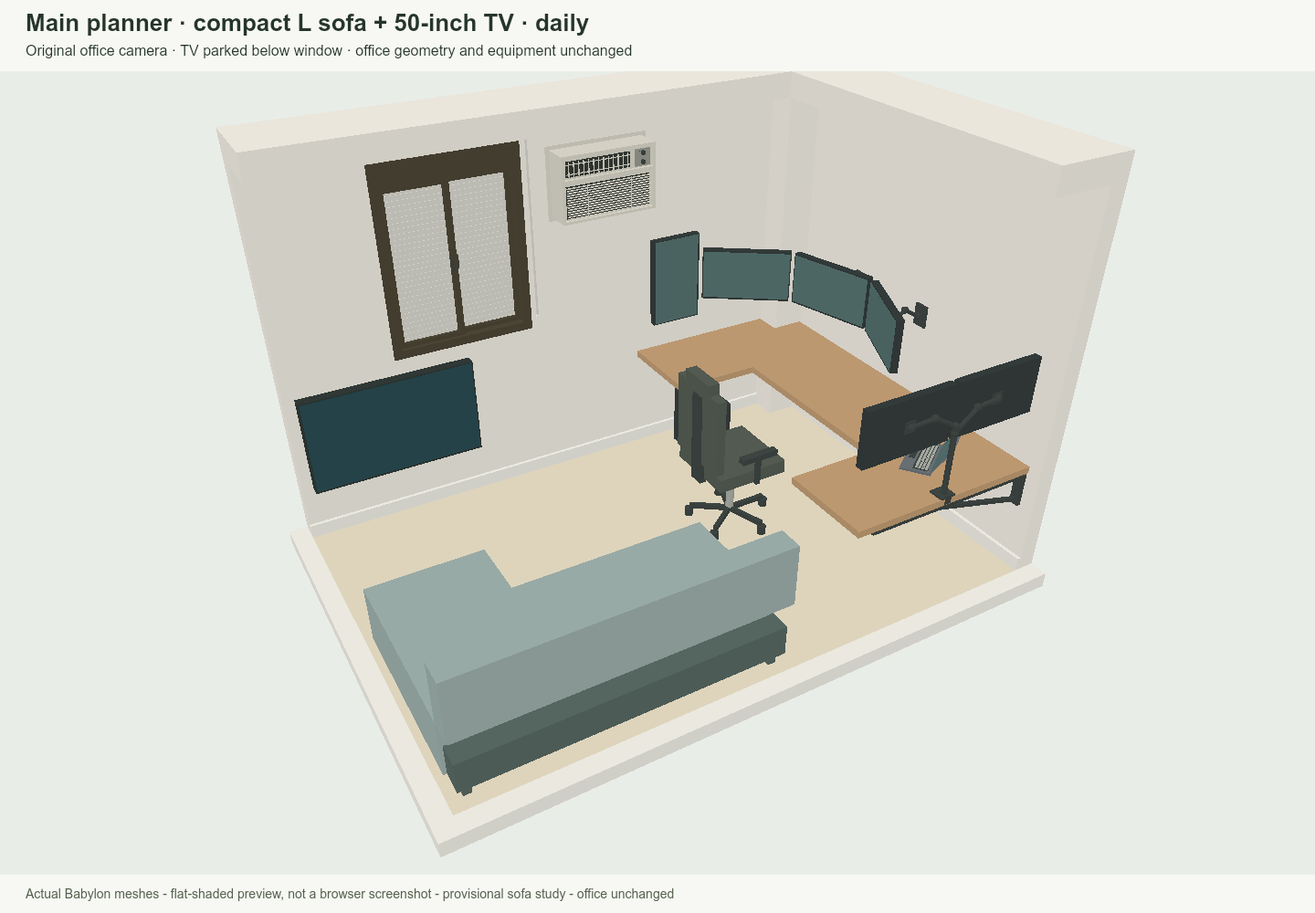
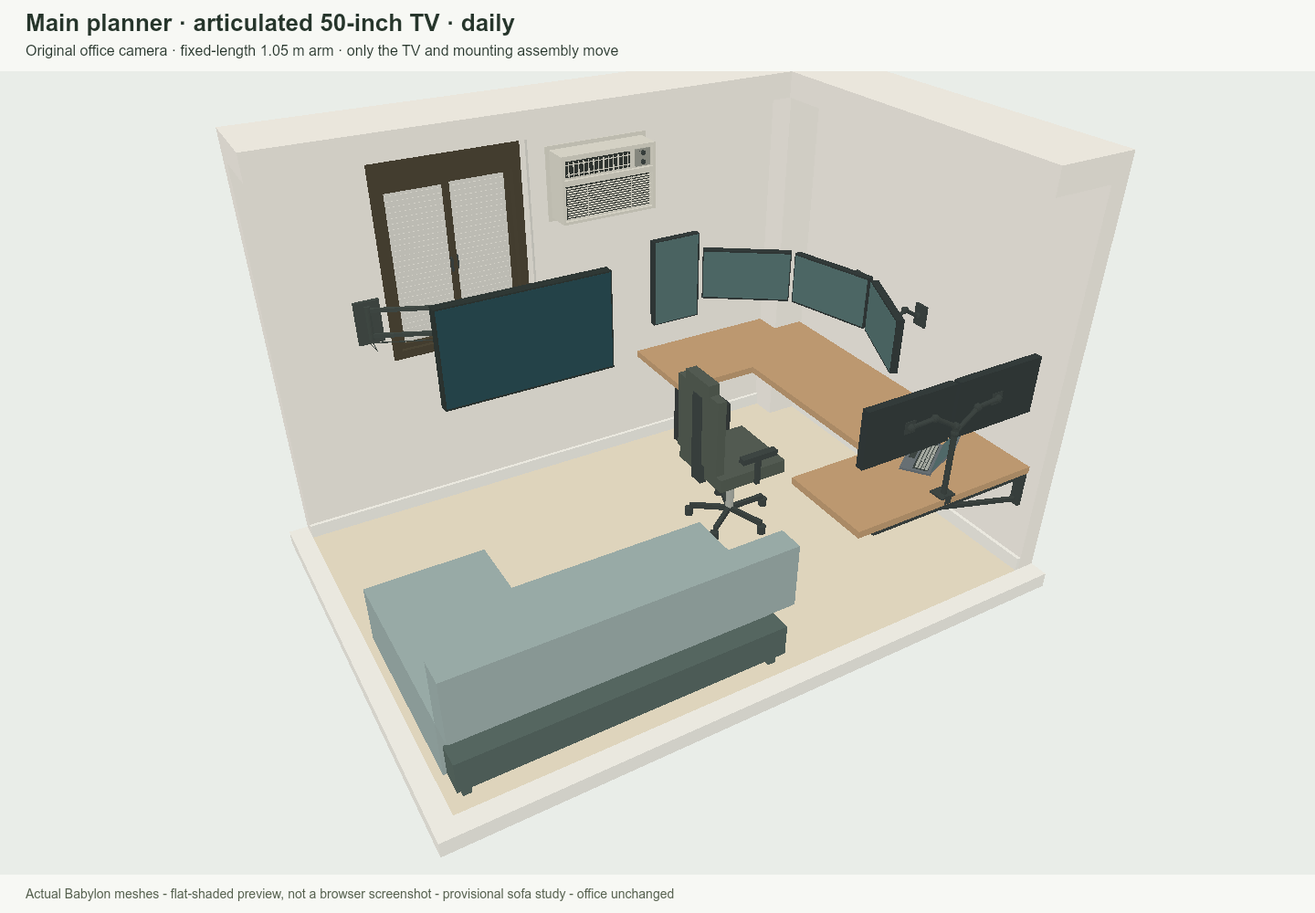
fix(tv): add a storable articulated mount facing the sofa
- Animate stored, sofa-viewing and window-access positions with rigid arm links
- Raise the full-size TV and preserve the existing room and workstation layout
- Persist TV controls with undo and update walking collisions during motion
- Verify both trial door swings, window geometry and access behind the screen
- Refresh actual-mesh previews and document the provisional mount dimensions
- Pass all 76 tests and the production build

Changed region(s): [[0.2188, 0.279, 0.4688, 0.558], [0.125, 0.0, 0.4688, 0.062]]

diff --git a/tests/main-lounge.test.ts b/tests/main-lounge.test.ts
@@ -8,8 +8,9 @@ import {createRoom} from '../src/room/geometry';
 import {createArchitecture} from '../src/architecture/features';
 import {createMaterials} from '../src/materials';
 import {obstacles,canStand,rectanglesOverlap} from '../src/navigation/collision';
-import {doorLeaf} from '../src/study/analysis';
+import {doorLeaf,route} from '../src/study/analysis';
 import {validateConfig} from '../src/config/storage';
+import {tvPose,tvMotionObstacles,solveTV,TV_MOUNT,TV_STOPS} from '../src/furniture/tvMotion';
 
 test('main lounge renders a full-size TV and sofa without changing the locked office',()=>{
   const config=freshConfig(),before=structuredClone(config);config.lounge=freshLounge();
@@ -27,20 +28,31 @@ test('main lounge renders a full-size TV and sofa without changing the locked of
   }finally{scene.dispose();engine.dispose();}
 });
 
-test('parked TV and plate clear the window, room and both trial inward door sweeps',()=>{
+test('TV mount remains on solid wall and every guided pose clears both trial inward door sweeps',()=>{
   const config=freshConfig();config.lounge=freshLounge();const tv=LOUNGE.tv;
   assert.ok(tv.anchor.x-tv.plateWidth/2>1.175);
-  assert.ok(tv.center.x+tv.width/2<config.room.length/2);
-  assert.ok(Math.abs(config.room.openings[0].sill-(tv.center.y+tv.height/2)-.055)<1e-8);
-  const added=obstacles(config).filter(o=>o.id.startsWith('lounge-tv'));
-  for(const hinge of ['south','north'] as const)for(let angle=0;angle<=90;angle+=.25)
-    for(const o of added)assert.equal(rectanglesOverlap(o,doorLeaf(config,hinge,angle)),false,`${hinge} door ${angle}`);
+  const leaves=(['south','north'] as const).flatMap(h=>Array.from({length:361},(_,i)=>doorLeaf(config,h,i/4)));
+  const fixed=obstacles(freshConfig());
+  for(let i=0;i<=900;i++){
+    const pose=tvPose(i/900),{end,elbow,reach}=solveTV(pose),parts=tvMotionObstacles(pose);
+    assert.ok(reach<=1.05+1e-8);
+    assert.ok(Math.abs(Math.hypot(elbow.x-TV_MOUNT.anchor.x,elbow.z-TV_MOUNT.anchor.z)-.70)<1e-8);
+    assert.ok(Math.abs(Math.hypot(elbow.x-end.x,elbow.z-end.z)-.35)<1e-8);
+    for(const o of parts){const r=o.rotation*Math.PI/180,halfZ=(Math.abs(Math.sin(r))*o.width+Math.abs(Math.cos(r))*o.depth)/2;
+      assert.ok(o.z-halfZ>=-config.room.width/2-1e-8,'Do not swing into the wall');
+      assert.ok(leaves.every(leaf=>!rectanglesOverlap({...o,width:o.width+.02,depth:o.depth+.02},leaf)),`Door needs 10 mm additional clearance at pose ${i}`);
+      assert.ok(fixed.every(item=>!rectanglesOverlap(o,item)),`Existing furniture conflict at pose ${i}`);
+    }
+    assert.ok(parts.slice(1).every(link=>!rectanglesOverlap(parts[0],link)),'Arm must stay behind the screen');
+  }
   const engine=new NullEngine(),scene=new Scene(engine);
   try{
     const materials=createMaterials(scene,config.room,false),room=createRoom(scene,config.room,materials);
     const architecture=createArchitecture(scene,config.room,materials,room),lounge=createLounge(scene,config);
-    for(const a of architecture.filter(m=>m.parent?.name==='window'))for(const b of lounge.meshes.filter(m=>m.name.startsWith('Lounge TV'))){
-      a.computeWorldMatrix(true);b.computeWorldMatrix(true);assert.equal(a.intersectsMesh(b,true),false,`${a.name} / ${b.name}`);
+    for(let i=0;i<=90;i++){lounge.updateTV(i/90);
+      for(const a of architecture.filter(m=>m.parent?.name==='window'))for(const b of lounge.meshes.filter(m=>m.name.startsWith('Lounge TV'))){
+        a.computeWorldMatrix(true);b.computeWorldMatrix(true);assert.equal(a.intersectsMesh(b,true),false,`${a.name} / ${b.name} at ${i}`);
+      }
     }
   }finally{scene.dispose();engine.dispose();}
 });
@@ -48,9 +60,18 @@ test('parked TV and plate clear the window, room and both trial inward door swee
 test('Walk Mode collides with visible sofa and TV; hiding lounge removes those obstacles',()=>{
   const config=freshConfig();config.lounge=freshLounge();
   assert.equal(canStand(.5,.8,config.room,obstacles(config)),false);
-  assert.equal(canStand(1.28,-1.08,config.room,obstacles(config),.10),false);
-  assert.equal(canStand(.5,-.6,config.room,obstacles(config)),true);
+  assert.equal(canStand(.55,-.6,config.room,obstacles(config),.10),false);
+  assert.equal(canStand(.1,-.4,config.room,obstacles(config),.15),true);
   config.lounge.state='sleeping';assert.equal(canStand(.5,.05,config.room,obstacles(config)),false);
   config.lounge.visible=false;assert.equal(canStand(.5,.8,config.room,obstacles(config)),true);
   assert.ok(!obstacles(config).some(o=>o.id.startsWith('lounge')));
+});
+
+test('window-access pose provides a walkable approach behind the angled screen',()=>{
+  const config=freshConfig();config.lounge={...freshLounge(),tvProgress:TV_STOPS.access};
+  for(const hinge of ['south','north'] as const){
+    const objects=[...obstacles(config).filter(o=>o.bottom<1.8&&o.top>.08),doorLeaf(config,hinge,90)];
+    const access=route(config,objects,{x:.30,z:-1.0});
+    assert.ok(access.width>=.55,`Window approach: ${access.width}`);
+  }
 });

diff --git a/src/furniture/lounge.ts b/src/furniture/lounge.ts
@@ -5,36 +5,39 @@ import { solid } from '../materials';
 import { box } from '../room/geometry';
 import { SLEEPERS } from '../study/config';
 import { createSleeper } from '../study/geometry';
+import { solveTV, tvPose, TV_MOUNT } from './tvMotion';
 
 export function createLounge(scene:Scene,config:PlannerConfig) {
   const meshes:Mesh[]=[];
-  if(!config.lounge?.visible)return {meshes,dispose:()=>{}};
+  if(!config.lounge?.visible)return {meshes,updateTV:(_progress:number)=>{},dispose:()=>{}};
   const sofa=createSleeper(scene,SLEEPERS.find(s=>s.id===LOUNGE.sofaId)!,'north',config.lounge.state,config);
   // Measurement envelopes belong in the study; the main scene shows actual furniture.
   sofa.meshes.filter(m=>!m.name.startsWith('Sleeper')).forEach(m=>m.setEnabled(false));
   meshes.push(...sofa.meshes);
-  const tv=LOUNGE.tv,c=tv.center,a=tv.anchor;
+  const tv=LOUNGE.tv,a=tv.anchor;
   const finish=solid(scene,'Lounge TV case',tv.color,.12),display=solid(scene,'Lounge TV screen',tv.screenColor,.08),steel=solid(scene,'Lounge TV arm','#444d48',.2);
   display.emissiveColor=display.diffuseColor.scale(.10);
   const part=(name:string,w:number,h:number,d:number,x:number,y:number,z:number,material=finish)=>{
     const mesh=box(scene,`Lounge TV ${name}`,w,h,d,x,y,z,material);meshes.push(mesh);return mesh;
   };
-  part('50-inch housing',tv.width,tv.height,tv.depth,c.x,c.y,c.z);
-  part('50-inch display',tv.width-.018,tv.height-.022,.002,c.x,c.y+.002,c.z+tv.depth/2+.001,display);
+  const screenRoot=new Mesh('TV articulated screen pivot',scene);meshes.push(screenRoot);
+  const housing=part('50-inch housing',tv.width,tv.height,tv.depth,0,0,0);housing.parent=screenRoot;
+  const screen=part('50-inch display',tv.width-.018,tv.height-.022,.002,0,.002,tv.depth/2+.001,display);screen.parent=screenRoot;
   part('wall plate',tv.plateWidth,tv.plateHeight,.025,a.x,a.y,-config.room.width/2+.0125,steel);
-  const end=new Vector3(c.x,c.y,c.z-tv.depth/2-.015),start=new Vector3(a.x,a.y,a.z);
-  const distance=Vector3.Distance(start,end),mid=start.add(end).scale(.5);
-  if(distance>tv.linkLength*2)throw Error('TV mount exceeds its configured reach.');
-  const elbow=new Vector3(mid.x-Math.sqrt(tv.linkLength**2-(distance/2)**2),mid.y,mid.z);
-  const link=(p:Vector3,q:Vector3)=>{
-    const mesh=part('folded articulated link',.018,.025,Vector3.Distance(p,q),(p.x+q.x)/2,(p.y+q.y)/2,(p.z+q.z)/2,steel);
-    mesh.rotation.y=Math.atan2(q.x-p.x,q.z-p.z);
+  const vesa=part('VESA plate',.20,.20,.03,0,0,-TV_MOUNT.vesaOffset,steel);vesa.parent=screenRoot;
+  const links=[-.085,.085].flatMap(y=>[0,1].map(i=>({y,i,mesh:part('articulated link',.020,.025,tv.links[i],0,a.y+y,0,steel)})));
+  const pivots=[0,1,2].map(()=>{const m=MeshBuilder.CreateCylinder('Lounge TV hinge',{diameter:.035,height:.22,tessellation:16},scene);m.material=steel;meshes.push(m);return m;});
+  // Cable follows both rigid links, with service loops at moving joints.
+  let cable:Mesh|undefined;
+  const updateTV=(progress:number)=>{
+    const p=tvPose(progress),{end,elbow}=solveTV(p),points=[a,elbow,end];
+    screenRoot.position.set(p.x,a.y,p.z);screenRoot.rotation.y=p.yaw*Math.PI/180;
+    links.forEach(({i,y,mesh})=>{const s=points[i],e=points[i+1];mesh.position.set((s.x+e.x)/2,a.y+y,(s.z+e.z)/2);mesh.rotation.y=Math.atan2(e.x-s.x,e.z-s.z);});
+    pivots.forEach((m,i)=>m.position.set(points[i].x,a.y,points[i].z));
+    const path=points.flatMap((q,i)=>[new Vector3(q.x,a.y-.13,q.z),new Vector3(q.x-.02,a.y-.19,q.z+.012),new Vector3(q.x+(i===2?0:.02),a.y-.13,q.z)]);
+    cable=MeshBuilder.CreateTube('Lounge TV articulated service cable',{path,radius:.004,tessellation:6,updatable:true,instance:cable},scene);
+    cable.material=steel;if(!meshes.includes(cable))meshes.push(cable);
   };
-  for(const offset of [-.085,.085]){
-    const p=start.add(new Vector3(0,offset,0)),q=elbow.add(new Vector3(0,offset,0)),r=end.add(new Vector3(0,offset,0));link(p,q);link(q,r);
-  }
-  part('VESA plate',.20,.20,.030,end.x,end.y,end.z,steel);
-  const cable=MeshBuilder.CreateTube('Lounge TV service cable',{path:[start.add(new Vector3(0,-.10,.02)),new Vector3(a.x-.1,a.y-.29,a.z+.035),end.add(new Vector3(0,-.10,0))],radius:.004,tessellation:8},scene);
-  cable.material=steel;meshes.push(cable);
-  return {meshes,dispose:()=>{sofa.dispose();meshes.filter(m=>!sofa.meshes.includes(m)).forEach(m=>m.dispose());finish.dispose();display.dispose();steel.dispose();}};
+  updateTV(config.lounge.tvProgress??7/9);
+  return {meshes,updateTV,dispose:()=>{sofa.dispose();meshes.filter(m=>!sofa.meshes.includes(m)).forEach(m=>m.dispose());finish.dispose();display.dispose();steel.dispose();}};
 }

diff --git a/src/planner.ts b/src/planner.ts
@@ -1,5 +1,5 @@
 import { deskOutline } from './furniture/deskProfile';
-import { BoundingInfo, Color3, Color4, Engine, GizmoManager, Mesh, MeshBuilder, PointerEventTypes, Scene, Vector3 } from '@babylonjs/core';
+import { BoundingInfo, Color3, Color4, Engine, GizmoManager, Mesh, MeshBuilder, Observer, PointerEventTypes, Scene, Vector3 } from '@babylonjs/core';
 import { createWorkZone, freshConfig } from './config/office';
 import { History, loadConfig, saveConfig, validateConfig } from './config/storage';
 import type { FurnitureConfig, Mode, PlannerConfig, TransformTool } from './config/types';
@@ -17,6 +17,7 @@ import { createMeasurements } from './room/measurements';
 import { UI } from './ui/panel';
 import { freshLounge } from './config/lounge';
 import { createLounge } from './furniture/lounge';
+import {TV_STOPS} from './furniture/tvMotion';
 
 export class Planner {
   private config: PlannerConfig;
@@ -28,6 +29,7 @@ export class Planner {
   private architecture: Mesh[] = [];
   private furniture = new Map<string, FurnitureObject>();
   private lounge?: ReturnType<typeof createLounge>;
+  private tvAnimation:Observer<Scene>|null=null;
   private measurement!: ReturnType<typeof createMeasurements>;
   private lights: ReturnType<typeof createLighting>;
   private baseboards!: ReturnType<typeof createBaseboardLighting>;
@@ -106,6 +108,7 @@ export class Planner {
     this.measurement = createMeasurements(this.scene, this.config.room);
   }
   private buildFurniture() {
+    if(this.tvAnimation){this.scene.onBeforeRenderObservable.remove(this.tvAnimation);this.tvAnimation=null;}
     this.lounge?.dispose();this.lounge=createLounge(this.scene,this.config);
     this.gizmos.attachToMesh(null); this.selection?.dispose(); this.selection = null;
     disposeFurniture(this.furniture); this.furniture = createFurniture(this.scene, this.config.furniture, this.materials, this.config.room);
@@ -222,6 +225,9 @@ export class Planner {
     if(this.navigation.mode !== 'edit') return;
     const selected = this.selectedId ? this.furniture.get(this.selectedId) : undefined;
     switch(action) {
+      case 'tv-stored': this.moveTV(TV_STOPS.stored); return;
+      case 'tv-viewing': this.moveTV(TV_STOPS.viewing); return;
+      case 'tv-access': this.moveTV(TV_STOPS.access); return;
       case 'toggle-lounge': this.change(config=>{config.lounge??=freshLounge();config.lounge.visible=!config.lounge.visible;}); return;
       case 'lounge-daily': case 'lounge-sleeping': this.change(config=>{config.lounge??=freshLounge();config.lounge.visible=true;config.lounge.state=action==='lounge-daily'?'daily':'sleeping';}); return;
       case 'toggle-work-zone': this.change(config=>{
@@ -283,6 +289,23 @@ export class Planner {
       }
     }
     this.render();
+  }
+  private moveTV(target:number) {
+    if(this.tvAnimation||!this.config.lounge?.visible)return;
+    const start=this.config.lounge.tvProgress??TV_STOPS.viewing;
+    if(Math.abs(start-target)<.0001)return;
+    document.querySelectorAll<HTMLButtonElement>('[data-action^="tv-"]').forEach(b=>b.disabled=true);
+    let elapsed=0;const duration=Math.max(.6,Math.abs(target-start)*3.5);
+    this.tvAnimation=this.scene.onBeforeRenderObservable.add(()=>{
+      elapsed+=Math.min(.05,this.engine.getDeltaTime()/1000);
+      const t=Math.min(1,elapsed/duration),smooth=t*t*(3-2*t),progress=start+(target-start)*smooth;
+      this.lounge?.updateTV(progress);
+      this.navigation.setConfig({...this.config,lounge:{...this.config.lounge!,tvProgress:progress}});
+      if(t>=1){
+        this.scene.onBeforeRenderObservable.remove(this.tvAnimation);this.tvAnimation=null;
+        const next=structuredClone(this.config);next.lounge!.tvProgress=target;this.apply(next);
+      }
+    });
   }
   private keyboard(event: KeyboardEvent) {
     if (this.navigation.mode !== 'edit' || (event.target as HTMLElement).closest('input,select,textarea,[contenteditable="true"]') || document.querySelector('dialog[open]')) return;

diff --git a/src/furniture/tvMotion.ts b/src/furniture/tvMotion.ts
@@ -1,0 +1,32 @@
+import type { Obstacle } from '../navigation/collision';
+import {LOUNGE} from '../config/lounge';
+export type TVPose={x:number;z:number;yaw:number};
+export const TV_MOUNT={anchor:LOUNGE.tv.anchor,links:LOUNGE.tv.links,vesaOffset:.055};
+// Guided path first turns the screen diagonally around the doorway, then aims it
+// at the sofa. Every intermediate pose uses the same two rigid arm lengths.
+export const TV_PATH:TVPose[]=[
+  {x:.9430233,z:-1.1454657,yaw:0},{x:.95,z:-1.09,yaw:5},
+  {x:.9,z:-1.02,yaw:15},{x:.85,z:-.94,yaw:25},{x:.8,z:-.86,yaw:35},
+  {x:.7,z:-.8,yaw:30},{x:.6,z:-.70,yaw:15},{x:.55,z:-.6,yaw:0},
+  {x:.65,z:-.67,yaw:25},{x:.75,z:-.74,yaw:45},
+];
+export const TV_STOPS={stored:0,viewing:7/9,access:1};
+export function tvPose(progress=TV_STOPS.viewing):TVPose {
+  const t=Math.max(0,Math.min(1,progress))*(TV_PATH.length-1),i=Math.min(TV_PATH.length-2,Math.floor(t)),f=t-i,a=TV_PATH[i],b=TV_PATH[i+1];
+  return {x:a.x+(b.x-a.x)*f,z:a.z+(b.z-a.z)*f,yaw:a.yaw+(b.yaw-a.yaw)*f};
+}
+export function solveTV(pose:TVPose){
+  const yaw=pose.yaw*Math.PI/180,a=TV_MOUNT.anchor;
+  const end={x:pose.x-Math.sin(yaw)*TV_MOUNT.vesaOffset,z:pose.z-Math.cos(yaw)*TV_MOUNT.vesaOffset};
+  const dx=end.x-a.x,dz=end.z-a.z,d=Math.hypot(dx,dz),[l1,l2]=TV_MOUNT.links;
+  if(d>l1+l2+1e-8||d<Math.abs(l1-l2)-1e-8)throw Error('TV pose is outside the articulated arm reach.');
+  const angle=Math.atan2(dz,dx)+Math.acos(Math.max(-1,Math.min(1,(l1*l1+d*d-l2*l2)/(2*l1*d))));
+  const elbow={x:a.x+l1*Math.cos(angle),z:a.z+l1*Math.sin(angle)};
+  return {end,elbow,reach:d};
+}
+export function tvMotionObstacles(p:TVPose):Obstacle[]{
+  const {end,elbow}=solveTV(p),a=TV_MOUNT.anchor;
+  const link=(s:{x:number;z:number},e:{x:number;z:number},id:string):Obstacle=>({id,x:(s.x+e.x)/2,z:(s.z+e.z)/2,width:.020,depth:Math.hypot(e.x-s.x,e.z-s.z),rotation:Math.atan2(e.x-s.x,e.z-s.z)*180/Math.PI,bottom:a.y-.12,top:a.y+.12});
+  const tv=LOUNGE.tv;
+  return [{id:'lounge-tv',x:p.x,z:p.z,width:tv.width,depth:tv.depth,rotation:p.yaw,bottom:a.y-tv.height/2,top:a.y+tv.height/2},link(a,elbow,'lounge-tv-arm-1'),link(elbow,end,'lounge-tv-arm-2')];
+}

diff --git a/src/ui/panel.ts b/src/ui/panel.ts
@@ -136,7 +136,10 @@ export class UI {
         <button class="architecture-row" data-action="toggle-lounge" aria-pressed="${!!config.lounge?.visible}">${icon(config.lounge?.visible?'eye-off':'eye')}<span>${config.lounge?.visible?'Hide':'Show'} sofa + 50-inch TV</span></button>
         <button class="architecture-row" data-action="lounge-daily" aria-pressed="${config.lounge?.state==='daily'}">${icon('armchair')}<span>Compact L · closed</span></button>
         <button class="architecture-row" data-action="lounge-sleeping" aria-pressed="${config.lounge?.state==='sleeping'}">${icon('bed-double')}<span>Extend sleeper bed</span></button>
-        <p class="features-note">2.00 m sofa · TV parked below sill. Extended TV position not verified.</p>
+        <button class="architecture-row" data-action="tv-stored" ${!config.lounge?.visible?'disabled':''} aria-pressed="${config.lounge?.tvProgress===0}">${icon('panel-left-close')}<span>Store TV near wall</span></button>
+        <button class="architecture-row" data-action="tv-viewing" ${!config.lounge?.visible?'disabled':''} aria-pressed="${(config.lounge?.tvProgress??7/9)===7/9}">${icon('monitor')}<span>TV toward sofa</span></button>
+        <button class="architecture-row" data-action="tv-access" ${!config.lounge?.visible?'disabled':''} aria-pressed="${config.lounge?.tvProgress===1}">${icon('app-window')}<span>Move TV for window access</span></button>
+        <p class="features-note">50-inch TV · 1.05 m articulated arm. Viewing may overlap the window; use Window access to reach behind it.</p>
       </div>
       ${workLaptop ? `<button class="architecture-row" data-action="toggle-work-power" aria-pressed="${workPowered}">${icon('power')}<span>${workPowered ? 'Turn work setup off' : 'Turn work setup on'}</span></button><p class="features-note">Laptop + 2 work monitors. Personal PC stays on.</p>` : ''}
       ${workRoot ? `<button class="architecture-row" data-visibility="${esc(workRoot.id)}">${icon(workRoot.visible ? 'eye-off' : 'eye')}<span>${workRoot.visible ? 'Hide work monitor pair' : 'Show work monitor pair'}</span></button>` : ''}

diff --git a/scripts/render-main-lounge.ts b/scripts/render-main-lounge.ts
@@ -8,16 +8,17 @@ import {createArchitecture} from '../src/architecture/features';
 import {createFurniture} from '../src/furniture';
 import {createLounge} from '../src/furniture/lounge';
 import {geometryPreview} from './geometry-preview';
+import {TV_STOPS} from '../src/furniture/tvMotion';
 
 mkdirSync('docs/main-lounge',{recursive:true});
-for(const state of ['daily','sleeping'] as const){
-  const config=freshConfig();config.lounge={...freshLounge(),state};
+for(const [name,state,progress] of [['daily','daily',TV_STOPS.viewing],['sleeping','sleeping',TV_STOPS.viewing],['tv-stored','daily',TV_STOPS.stored],['tv-window-access','daily',TV_STOPS.access]] as const){
+  const config=freshConfig();config.lounge={...freshLounge(),state,tvProgress:progress};
   const engine=new NullEngine(),scene=new Scene(engine);
   try{
     const mats=createMaterials(scene,config.room,false),room=createRoom(scene,config.room,mats);
     createArchitecture(scene,config.room,mats,room);createFurniture(scene,config.furniture,mats,config.room);createLounge(scene,config);
     room.ceiling.setEnabled(false);room.groups.north.setEnabled(false);room.groups.east.setEnabled(false);
     const camera=new ArcRotateCamera('Main comparison',Math.PI/3,Math.PI/3.2,6.5,new Vector3(0,.62,0),scene);camera.getViewMatrix(true);
-    writeFileSync(`docs/main-lounge/${state}.png`,geometryPreview(scene,{title:`Main planner · compact L sofa + 50-inch TV · ${state}`,subtitle:'Original office camera · TV parked below window · office geometry and equipment unchanged',eye:camera.position.clone(),target:camera.target.clone(),up:Vector3.Up(),ortho:0}));
+    writeFileSync(`docs/main-lounge/${name}.png`,geometryPreview(scene,{title:`Main planner · articulated 50-inch TV · ${name}`,subtitle:'Original office camera · fixed-length 1.05 m arm · only the TV and mounting assembly move',eye:camera.position.clone(),target:camera.target.clone(),up:Vector3.Up(),ortho:0}));
   }finally{scene.dispose();engine.dispose();}
 }

diff --git a/tests/interaction.test.ts b/tests/interaction.test.ts
@@ -44,6 +44,20 @@ test('planner integration: startup, numeric edits, undo, mode switch, room rebui
     button('[data-action="lounge-sleeping"]');assert.equal(saved().lounge?.state,'sleeping');
     button('[data-action="lounge-daily"]');assert.equal(saved().lounge?.state,'daily');
     assert.deepEqual(saved().furniture,lockedLoungeSnapshot);
+    const beforeTV=structuredClone(saved()),originalDelta=engine.getDeltaTime;
+    engine.getDeltaTime=()=>50;
+    button('[data-action="tv-stored"]');
+    for(let i=0;i<100;i++)(planner as any).scene.onBeforeRenderObservable.notifyObservers((planner as any).scene);
+    assert.equal(saved().lounge?.tvProgress,0,'TV animation commits the stored endpoint');
+    assert.deepEqual(saved().furniture,beforeTV.furniture);assert.deepEqual(saved().room,beforeTV.room);
+    button('[data-action="tv-access"]');
+    for(let i=0;i<100;i++)(planner as any).scene.onBeforeRenderObservable.notifyObservers((planner as any).scene);
+    assert.equal(saved().lounge?.tvProgress,1,'Window-access endpoint is saved');
+    button('[data-action="undo"]');assert.equal(saved().lounge?.tvProgress,0,'TV movement supports undo');
+    button('[data-action="tv-viewing"]');
+    for(let i=0;i<100;i++)(planner as any).scene.onBeforeRenderObservable.notifyObservers((planner as any).scene);
+    assert.equal(saved().lounge?.tvProgress,7/9);
+    engine.getDeltaTime=originalDelta;
     assert.equal(dom.document.querySelectorAll('i[data-lucide]').length,0,'Lucide placeholders should have been replaced');
     const poweredSnapshot=saved();
     button('[data-action="toggle-work-power"]');

diff --git a/src/furniture/loungeLayout.ts b/src/furniture/loungeLayout.ts
@@ -2,6 +2,7 @@ import { LOUNGE } from '../config/lounge';
 import type { PlannerConfig } from '../config/types';
 import type { Obstacle } from '../navigation/collision';
 import { SLEEPERS } from '../study/config';
+import {tvMotionObstacles,tvPose} from './tvMotion';
 
 export function loungeObstacles(config:PlannerConfig):Obstacle[] {
   if(!config.lounge?.visible)return [];
@@ -9,9 +10,6 @@ export function loungeObstacles(config:PlannerConfig):Obstacle[] {
   const depth=config.lounge.state==='sleeping'?spec.openDepth:spec.depth;
   const result:Obstacle[]=[{id:'lounge-sofa',x:east-spec.width/2,z:north-depth/2,width:spec.width,depth,rotation:0,bottom:0,top:spec.height}];
   if(config.lounge.state!=='sleeping')result.push({id:'lounge-chaise',x:east-spec.chaiseWidth/2,z:north-(spec.depth+spec.chaiseDepth)/2,width:spec.chaiseWidth,depth:spec.chaiseDepth-spec.depth,rotation:0,bottom:0,top:spec.seatHeight});
-  const tv=LOUNGE.tv;
-  result.push({id:'lounge-tv',x:tv.center.x,z:tv.center.z,width:tv.width,depth:tv.depth,rotation:0,bottom:tv.center.y-tv.height/2,top:tv.center.y+tv.height/2});
-  // Parked arm packet is behind the case, fully below the window opening.
-  result.push({id:'lounge-tv-arm',x:tv.anchor.x-.15,z:(tv.anchor.z+tv.center.z-tv.depth/2)/2,width:.34,depth:.10,rotation:0,bottom:tv.anchor.y-.15,top:tv.anchor.y+.15});
+  result.push(...tvMotionObstacles(tvPose(config.lounge.tvProgress)));
   return result;
 }

diff --git a/src/config/storage.ts b/src/config/storage.ts
@@ -36,6 +36,7 @@ export function validateConfig(input: unknown): PlannerConfig {
   const room = config.room;
   if (config.version !== 2 || !room || !Array.isArray(config.furniture)) fail('This is not a supported Roomwork layout.');
   if(config.lounge && (typeof config.lounge.visible!=='boolean'||!['daily','sleeping'].includes(config.lounge.state))) fail('Invalid lounge visibility or sofa state.');
+  if(config.lounge?.tvProgress!==undefined&&!finite(config.lounge.tvProgress,0,1))fail('TV arm position must be between stored and window access.');
   if (!finite(room.length, 1, 30) || !finite(room.width, 1, 30) || !finite(room.height, 1.9, 8) || !finite(room.wallThickness, .05, .6)) fail('Room dimensions are outside the supported range.');
   if (typeof room.heightConfirmed !== 'boolean' || !Array.isArray(room.openings) || !Array.isArray(room.beams) || !Array.isArray(room.cornerFeatures)) fail('Architecture configuration is incomplete.');
   const led = room.baseboardLED;

diff --git a/src/config/lounge.ts b/src/config/lounge.ts
@@ -1,9 +1,9 @@
 /** Main-scene additions. Meters. Existing room and workstation are never rewritten. */
 export const LOUNGE = {
   sofaId:'mini', wallGap:.03,
-  tv:{width:1.12,height:.65,depth:.07,center:{x:1.28,y:.74,z:-1.17},
-    anchor:{x:1.28,y:.74,z:-1.27},plateWidth:.16,plateHeight:.28,linkLength:.31,
+  tv:{width:1.12,height:.65,depth:.07,
+    anchor:{x:1.30,y:1.42,z:-1.27},plateWidth:.16,plateHeight:.28,links:[.70,.35],
     color:'#303936',screenColor:'#294b52'},
 };
-export type LoungeState = {visible:boolean;state:'daily'|'sleeping'};
-export const freshLounge = ():LoungeState=>({visible:true,state:'daily'});
+export type LoungeState = {visible:boolean;state:'daily'|'sleeping';tvProgress?:number};
+export const freshLounge = ():LoungeState=>({visible:true,state:'daily',tvProgress:7/9});

diff --git a/docs/main-lounge/README.md b/docs/main-lounge/README.md
@@ -1,18 +1,30 @@
-# Sofa and TV in the main planner
+# Sofa and articulated TV in the main planner
 
-Open **http://127.0.0.1:5173/**. The compact L sofa and one **50-inch TV** now appear alongside the existing office, including for existing v13 saves. No room or workstation transform/dimension changes are applied.
+Open **http://127.0.0.1:5173/**. The compact L sofa and 50-inch TV appear alongside the existing office, including for existing v13 saves. Room and workstation dimensions and transforms remain unchanged.
 
-The left panel's **Lounge / Sofa + TV** controls hide/show both additions and switch the sofa between closed and sleeping states. These controls persist with the office layout and participate in undo/redo. The six external workstation monitors and laptop remain separate from the new TV.
+The left panel's Lounge controls offer **Store TV near wall**, **TV toward sofa**, and **Move TV for window access**. Each animates the same articulated assembly along a guided path, with fixed link lengths. The final position persists and participates in undo/redo. The sofa's closed/sleeping and hide/show controls remain available. Walk Mode collision obstacles follow the moving TV.
 
-- Sofa: same 2.00 m compact L, 0.90 m straight depth, 1.30 m chaise, on the north wall opposite the window. Bed planning envelope remains provisional as detailed in the [sofa study](../lounge-study/README.md).
-- TV: 1.12 × 0.65 × 0.07 m, center **(1.28, 0.74, −1.17) m**, front facing north toward the sofa.
-- Wall plate: 0.16 × 0.28 m, centered X = 1.28 m, Y = 0.74 m. Its leftmost X = 1.20 m is beyond the window's east edge at 1.175 m. The plate attaches to solid wall, never the window frame.
-- The available wall strip is only 0.725 m, narrower than the television. The full-size screen therefore parks **below the sill**, with its top at 1.065 m: **55 mm below the 1.12 m opening sill**. Its east edge clears the room corner by 60 mm.
-- Two pairs of 0.31 m articulated links represent a robust folded dual arm. The 0.62 m reach is a geometry limit, not certification of an unidentified mount or wall substrate. The VESA plate and service cable are modeled.
-- The parked TV/arm clear both hypothetical inward door handings through 90° at 0.25° increments and do not intersect the modeled window details. The actual door handing remains unconfirmed.
-- **Only the parked TV pose is implemented.** A fully extended, aimed pose and its swept operating envelope have not been established. The main view does not claim that such a motion is clear of the door. The earlier study's sofa-only circulation measurements must not be treated as a completed TV movement audit.
-- Walk Mode includes the sofa, chaise, TV and mount in its collision obstacles. Hiding the lounge removes those added obstacles.
+## Dimensions and mounting
 
-Additive UI state lives in optional `PlannerConfig.lounge`. Sofa specifications remain in `src/study/config.ts`; main-view TV dimensions, coordinates and arm lengths are centralized in `src/config/lounge.ts`. They can be changed in code for subsequent placement iterations. The TV currently has no movement gizmo or extension control.
+- TV housing: **1.12 x 0.65 x 0.07 m**, center height **1.42 m**. It is no longer parked low beneath the window.
+- Wall plate: **0.16 x 0.28 m**, centered at **(1.30, 1.42, -1.27) m**, on the south/window wall. Its left edge is 45 mm beyond the window opening's east edge, on the modeled solid wall strip.
+- Arm: two rigid links, **0.70 + 0.35 m**, giving **1.05 m maximum reach**. Paired bars, hinges, a VESA plate and a moving service cable are modeled. Long mounts in this size class exist: [Mount-It lists a 43-100-inch mount with 42.5-inch extension](https://www.mount-it.com/products/full-motion-tv-wall-mount-with-extra-long-extension-for-43-100-tvs). Our assembly is a configurable spatial concept, not that product's exact CAD or a verified fixing specification.
+- Stored: TV center **(0.943, 1.42, -1.145) m**, parallel to the wall; front projects approximately **19 cm** into the room.
+- Viewing: center **(0.55, 1.42, -0.60) m**, facing the sofa. Arm anchor-to-VESA reach is approximately **0.97 m**.
+- Window access: center **(0.75, 1.42, -0.74) m**, rotated **45 degrees**. Moving and angling the screen leaves an approach behind it. Some overlap remains in a front elevation; the window does not need to remain permanently uncovered.
 
-[Closed sofa + TV](daily.png) · [Sleeping sofa + TV](sleeping.png). These are previews of the actual main-scene meshes at the original camera angle, with simplified software shading, not browser screenshots. Regenerate with `npm run lounge:views`.
+The compact sofa remains **2.00 m wide**, with **0.90 m** straight depth and **1.30 m** chaise depth. Its provisional sleeping envelope is described in the [sofa study](../lounge-study/README.md).
+
+## Verification and limits
+
+The guided motion is sampled at 901 positions against both hypothetical inward door handings, each sampled through 90 degrees at 0.25-degree increments. The TV housing and links clear those door sweeps with an additional 10 mm footprint margin. The actual door handing remains unconfirmed. Fixed office obstacles, fixed arm lengths and arm-to-screen clearance are also checked throughout the path; 91 poses are checked against the actual Babylon window meshes.
+
+In window-access position with the sofa closed, the modeled route to the window has approximately **60 cm** available width for either tested open-door handing. This is an access check, not an 80 cm circulation claim. The earlier sofa-only circulation figures do not include the TV's movement envelope.
+
+Controls use the tested guided path rather than unconstrained dragging. There is no vertical tilt control. The room, desk, six external monitors, laptop, monitor arms, chair, tower and sofa are not moved by any TV control. Automated interaction checks cover animation, saved position and undo. Browser interaction could not be inspected in this environment; previews below use actual scene meshes with simplified software shading.
+
+Configuration: `src/config/lounge.ts` contains TV size, anchor and link lengths; `src/furniture/tvMotion.ts` contains the guided poses and inverse kinematics. Additive saved state lives in optional `PlannerConfig.lounge.tvProgress`.
+
+[Daily / viewing](daily.png) - [Stored](tv-stored.png) - [Window access](tv-window-access.png) - [Sleeping sofa / viewing](sleeping.png).
+
+Regenerate these previews with `npm run lounge:views`.

diff --git a/README.md b/README.md
@@ -15,7 +15,7 @@ Open **http://127.0.0.1:5173/**. `npm run build` type-checks and builds the prod
 
 ## Controls
 
-The main view now includes the **compact L sofa and 50-inch TV**. Use **Lounge / Sofa + TV** in the left panel to show/hide them or extend the bed. The TV is parked below the window sill; its extended movement remains unverified. [Placement details and views](docs/main-lounge/README.md).
+The main view includes the **compact L sofa and articulated 50-inch TV**. Use **Lounge / Sofa + TV** in the left panel for **Store TV near wall**, **TV toward sofa**, and **Move TV for window access**. The arm animates between checked positions; window overlap is intentional. Sofa controls remain separate. [Placement details and views](docs/main-lounge/README.md).
 
 The separate **[sofa-bed feasibility study](http://127.0.0.1:5173/sofa-study.html)** provides daily, seating and sleeping states, real product dimensions, two smaller alternatives, door-swing trials and dimensioned plans. It keeps the validated office fixed and does not overwrite saved layouts. See [findings and exported views](docs/lounge-study/README.md). Regenerate artifacts with `npm run study`.
 
